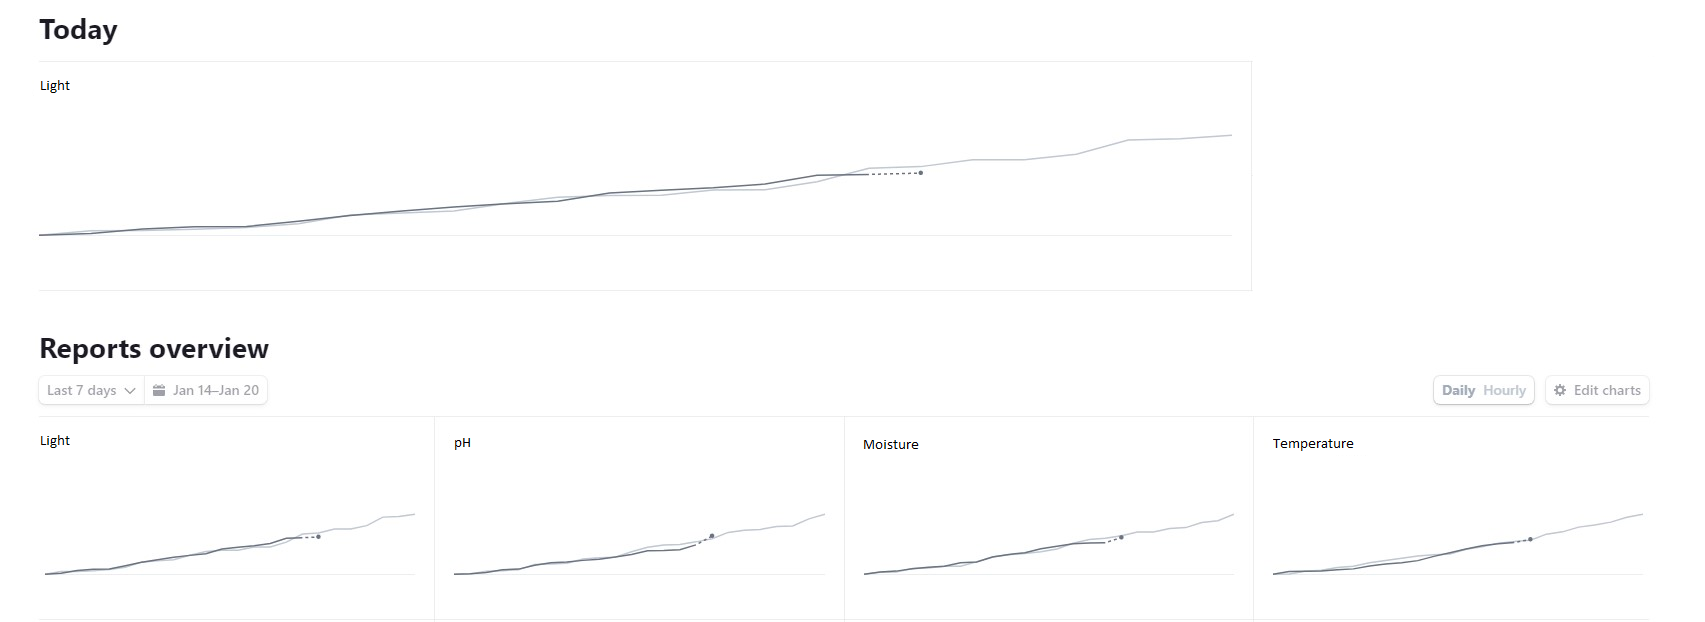
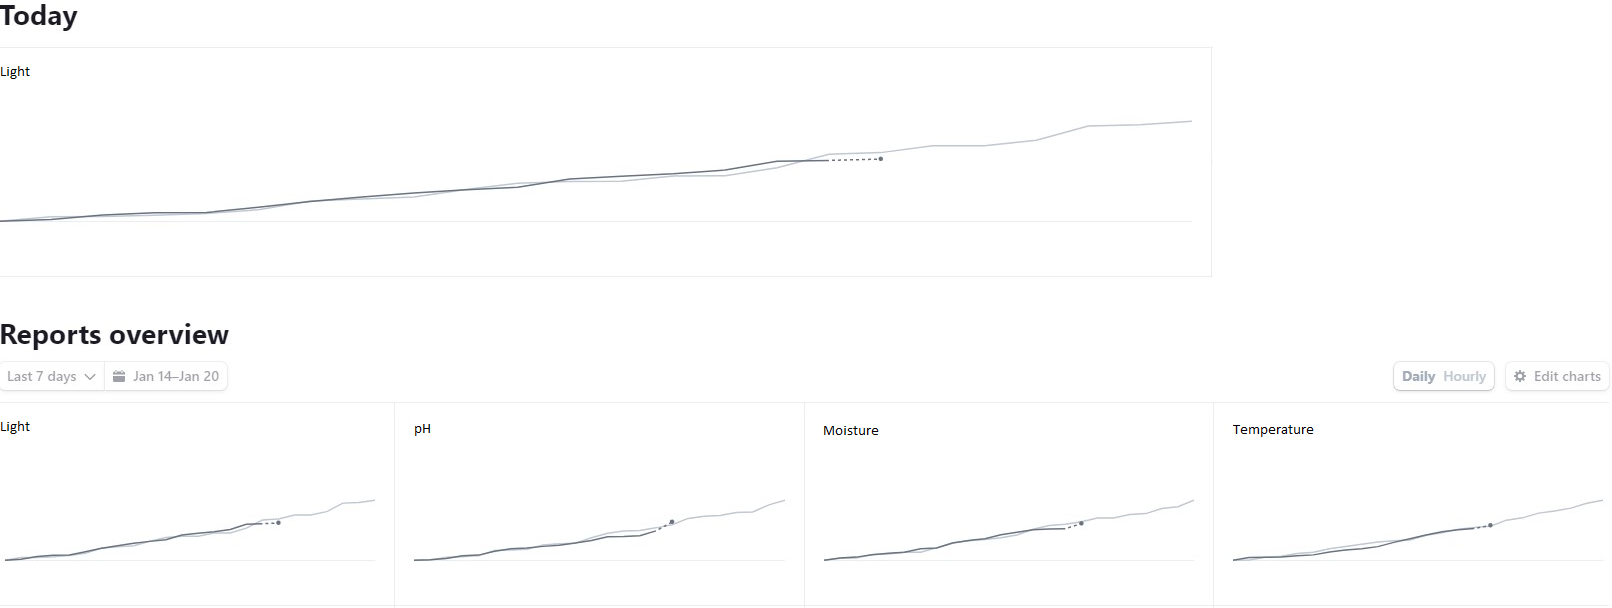
Added dynamic content size change

diff --git a/public/stylesheets/dashboardHome.css b/public/stylesheets/dashboardHome.css
@@ -10,10 +10,7 @@
 }
 
 #graphs img{
-    padding-left: 27rem;
-    padding-top: 10rem;
-    width: 2100px;
-    height: 766px;
+    padding-top: 5rem;
 }
 
 .hidden{
@@ -24,3 +21,8 @@
     background-color: rgb(158, 14, 158);
 }
 
+@media only screen and (max-width: 1650px){
+    #mainContent{
+        width: 93.5vw;
+    }
+}

diff --git a/public/stylesheets/dashboardNavbar.css b/public/stylesheets/dashboardNavbar.css
@@ -19,3 +19,9 @@
 .nav-link:hover{
     color: rgba(27, 27, 27, 0.616);
 }
+
+@media only screen and (max-width: 1650px){
+    .navbar-nav{
+        width: 100vw;
+    }
+}
